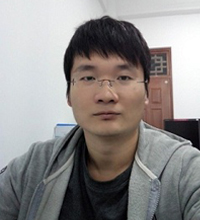
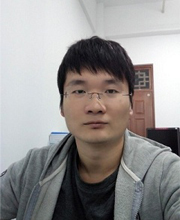
modify photo size

diff --git a/docs/index.md b/docs/index.md
@@ -4,7 +4,7 @@
   <tr>
     <td>姓  名：张建国</td>
     <td>研究方向：虚拟现实</td>
-	<td rowspan="5" width= "200" height="220" background="../images/myself.jpg"></td>
+	<td rowspan="5" width= "180" height="220" background="../images/myself.jpg"></td>
   </tr>
   <tr>
     <td>出生年月：1987年10月</td>
